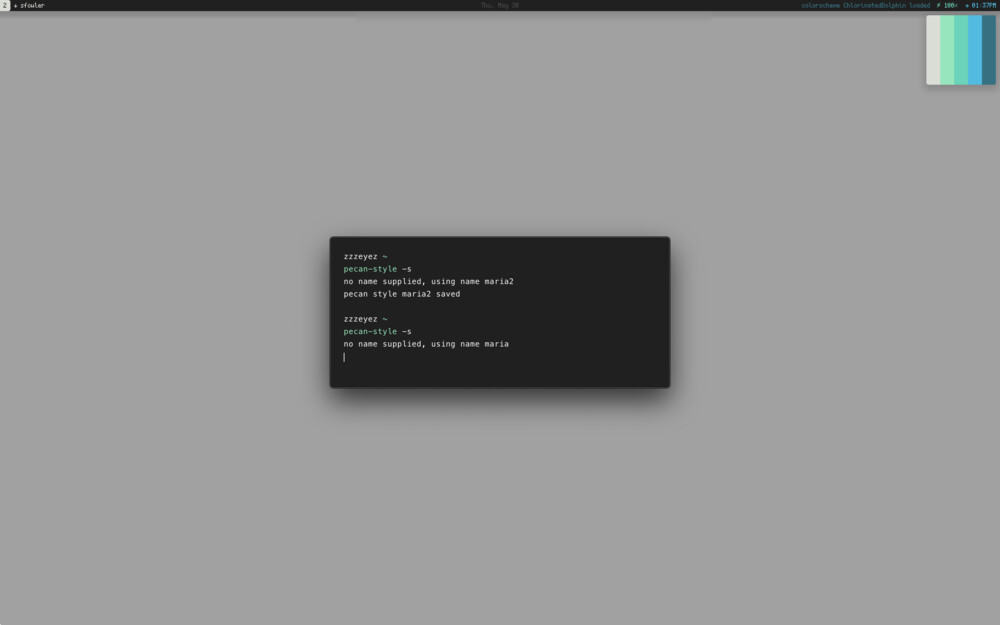
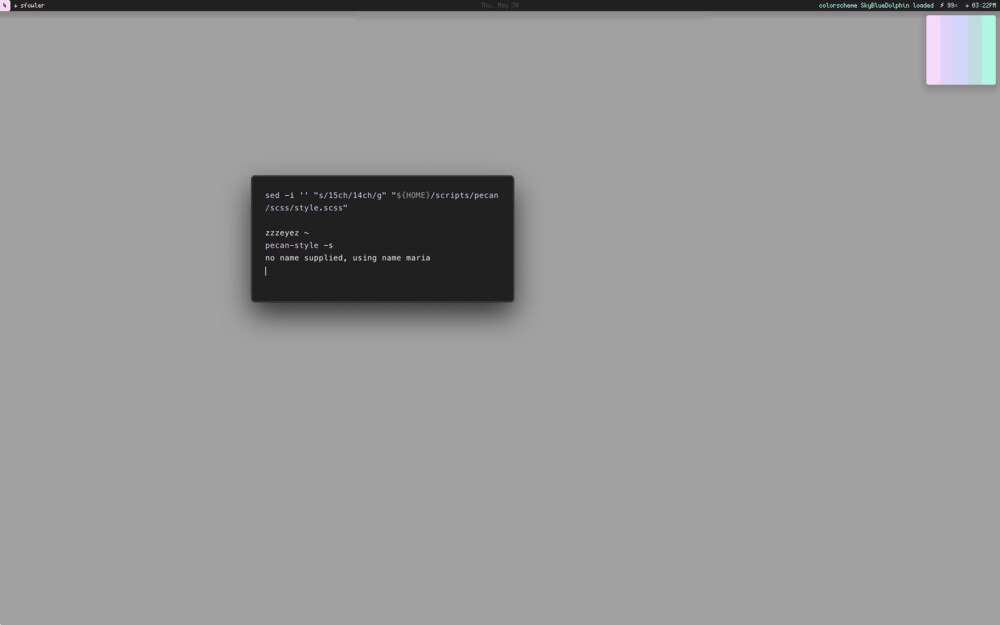
include the little lightning bolt

Changed region(s): [[0.217, 0.2736, 0.682, 0.6688], [0.806, 0.0, 1.0, 0.152], [0.0, 0.0, 0.031, 0.0304]]

diff --git a/themes/maria/style.css b/themes/maria/style.css
@@ -4,7 +4,7 @@
 :root {
   /* background colors */
   --pecan-bg: #202020;
-  --pecan-bg-pecanworkspace: #D9DDD4;
+  --pecan-bg-pecanworkspace: #FDD7FB;
   --pecan-bg-pecannetwork: var(--pecan-bg);
   --pecan-bg-pecandate: var(--pecan-bg);
   --pecan-bg-pecanbattery: var(--pecan-bg);
@@ -13,11 +13,11 @@
   --pecan-xanthia-image-bg: var(--pecan-bg);
   /* foreground colors */
   --pecan-fg-pecanworkspace: #202020;
-  --pecan-fg-pecannetwork: #D9DDD4;
+  --pecan-fg-pecannetwork: #FDD7FB;
   --pecan-fg-pecandate: #484848;
-  --pecan-fg-pecanbattery: #37D6B9;
-  --pecan-fg-pecanclock: #0DBCE5;
-  --pecan-xanthia-fg: #1D7283;
+  --pecan-fg-pecanbattery: #D2D6FE;
+  --pecan-fg-pecanclock: #B7DCE3;
+  --pecan-xanthia-fg: #9BF9E1;
   /* size */
   --pecan-height: 16px;
   --pecan-xanthia-max-width: 1000px;
@@ -50,7 +50,7 @@
   --pecan-padding-left: 0px;
   --pecan-padding-right: var(--pecan-padding-left);
   --pecan-padding-v: var(--pecan-padding-left);
-  --pecan-xanthia-padding-h: calc(var(--pecan-padding-right) + calc(var(--pecan-text-padding) * 4) + 15ch + calc(3 * var(--pecan-border)));
+  --pecan-xanthia-padding-h: calc(var(--pecan-padding-right) + calc(var(--pecan-text-padding) * 4) + 14ch + calc(3 * var(--pecan-border)));
   --pecan-xanthia-padding-v: calc(var(--pecan-border) + var(--pecan-padding-v));
   --pecan-xanthia-image-padding-v: calc(var(--pecan-height) + var(--pecan-xanthia-image-padding-h));
   --pecan-xanthia-image-padding-h: 6px;

diff --git a/themes/medicine/style.css b/themes/medicine/style.css
@@ -4,7 +4,7 @@
 :root {
   /* background colors */
   --pecan-bg: #fafafa;
-  --pecan-bg-pecanworkspace: #AFFBFF;
+  --pecan-bg-pecanworkspace: #F8B195;
   --pecan-bg-pecannetwork: #202020;
   --pecan-bg-pecandate: var(--pecan-bg-pecannetwork);
   --pecan-bg-pecanbattery: var(--pecan-bg-pecannetwork);
@@ -53,7 +53,7 @@
   --pecan-xanthia-padding-h: calc(var(--pecan-xanthia-image-size) + var(--pecan-xanthia-image-padding-h));
   --pecan-xanthia-padding-v: calc(var(--pecan-border) + var(--pecan-padding-v));
   --pecan-xanthia-image-padding-v: var(--pecan-xanthia-padding-v);
-  --pecan-xanthia-image-padding-h: calc(var(--pecan-padding-right) * 2 + calc(var(--pecan-text-padding) * 4) + 15ch + calc(3 * var(--pecan-border)));
+  --pecan-xanthia-image-padding-h: calc(var(--pecan-padding-right) * 2 + calc(var(--pecan-text-padding) * 4) + 14ch + calc(3 * var(--pecan-border)));
   /* shadow */
   --pecan-shadow: 0px 4px 10px 4px rgba(0,0,0,0.15);
   --pecan-shadow-inner: 0px 1px 1px 1px rgba(0,0,0,0.15);

diff --git a/style.css b/style.css
@@ -56,7 +56,7 @@
   --pecan-xanthia-padding-h: calc(var(--pecan-xanthia-image-size) + var(--pecan-xanthia-image-padding-h));
   --pecan-xanthia-padding-v: calc(var(--pecan-border) + var(--pecan-padding-v));
   --pecan-xanthia-image-padding-v: var(--pecan-xanthia-padding-v);
-  --pecan-xanthia-image-padding-h: calc(var(--pecan-padding-right) + calc(var(--pecan-text-padding) * 4) + 15ch + calc(3 * var(--pecan-border)));
+  --pecan-xanthia-image-padding-h: calc(var(--pecan-padding-right) + calc(var(--pecan-text-padding) * 4) + 14ch + calc(3 * var(--pecan-border)));
   /* shadow */
   --pecan-shadow: 0px 4px 10px 4px rgba(0,0,0,0.15);
   --pecan-shadow-inner: 0px 1px 1px 1px rgba(0,0,0,0.15);

diff --git a/themes/default/style.css b/themes/default/style.css
@@ -56,7 +56,7 @@
   --pecan-xanthia-padding-h: calc(var(--pecan-xanthia-image-size) + var(--pecan-xanthia-image-padding-h));
   --pecan-xanthia-padding-v: calc(var(--pecan-border) + var(--pecan-padding-v));
   --pecan-xanthia-image-padding-v: var(--pecan-xanthia-padding-v);
-  --pecan-xanthia-image-padding-h: calc(var(--pecan-padding-right) + calc(var(--pecan-text-padding) * 4) + 15ch + calc(3 * var(--pecan-border)));
+  --pecan-xanthia-image-padding-h: calc(var(--pecan-padding-right) + calc(var(--pecan-text-padding) * 4) + 14ch + calc(3 * var(--pecan-border)));
   /* shadow */
   --pecan-shadow: 0px 4px 10px 4px rgba(0,0,0,0.15);
   --pecan-shadow-inner: 0px 1px 1px 1px rgba(0,0,0,0.15);

diff --git a/themes/developer/style.css b/themes/developer/style.css
@@ -57,7 +57,7 @@
   --pecan-xanthia-padding-h: calc(var(--pecan-xanthia-image-size) + var(--pecan-xanthia-image-padding-h));
   --pecan-xanthia-padding-v: calc(var(--pecan-border) + var(--pecan-padding-v));
   --pecan-xanthia-image-padding-v: var(--pecan-xanthia-padding-v);
-  --pecan-xanthia-image-padding-h: calc(var(--pecan-padding-right) + calc(var(--pecan-text-padding) * 4) + 15ch + calc(3 * var(--pecan-border)));
+  --pecan-xanthia-image-padding-h: calc(var(--pecan-padding-right) + calc(var(--pecan-text-padding) * 4) + 14ch + calc(3 * var(--pecan-border)));
   /* shadow */
   --pecan-shadow: 0px 4px 10px 4px rgba(0,0,0,0.0);
   --pecan-shadow-inner: 0px 1px 1px 1px rgba(0,0,0,0.0);

diff --git a/themes/maria/style.scss b/themes/maria/style.scss
@@ -58,7 +58,7 @@
 	--pecan-padding-left: 0px;
 	--pecan-padding-right: var(--pecan-padding-left);
 	--pecan-padding-v: var(--pecan-padding-left);
-	--pecan-xanthia-padding-h: calc(var(--pecan-padding-right) + calc(var(--pecan-text-padding) * 4) + 15ch + calc(3 * var(--pecan-border))); 
+	--pecan-xanthia-padding-h: calc(var(--pecan-padding-right) + calc(var(--pecan-text-padding) * 4) + 14ch + calc(3 * var(--pecan-border))); 
 	--pecan-xanthia-padding-v: calc(var(--pecan-border) + var(--pecan-padding-v));
 	--pecan-xanthia-image-padding-v: calc(var(--pecan-height) + var(--pecan-xanthia-image-padding-h));
 	--pecan-xanthia-image-padding-h: 6px;

diff --git a/themes/medicine/style.scss b/themes/medicine/style.scss
@@ -61,7 +61,7 @@
 	--pecan-xanthia-padding-h: calc(var(--pecan-xanthia-image-size) + var(--pecan-xanthia-image-padding-h)); 
 	--pecan-xanthia-padding-v: calc(var(--pecan-border) + var(--pecan-padding-v));
 	--pecan-xanthia-image-padding-v: var(--pecan-xanthia-padding-v);
-	--pecan-xanthia-image-padding-h: calc(var(--pecan-padding-right) * 2 + calc(var(--pecan-text-padding) * 4) + 15ch + calc(3 * var(--pecan-border)));
+	--pecan-xanthia-image-padding-h: calc(var(--pecan-padding-right) * 2 + calc(var(--pecan-text-padding) * 4) + 14ch + calc(3 * var(--pecan-border)));
 
 /* shadow */
 	--pecan-shadow: 0px 4px 10px 4px rgba(0,0,0,0.15);

diff --git a/scss/style.scss b/scss/style.scss
@@ -64,7 +64,7 @@
 	--pecan-xanthia-padding-h: calc(var(--pecan-xanthia-image-size) + var(--pecan-xanthia-image-padding-h)); 
 	--pecan-xanthia-padding-v: calc(var(--pecan-border) + var(--pecan-padding-v));
 	--pecan-xanthia-image-padding-v: var(--pecan-xanthia-padding-v);
-	--pecan-xanthia-image-padding-h: calc(var(--pecan-padding-right) + calc(var(--pecan-text-padding) * 4) + 15ch + calc(3 * var(--pecan-border)));
+	--pecan-xanthia-image-padding-h: calc(var(--pecan-padding-right) + calc(var(--pecan-text-padding) * 4) + 14ch + calc(3 * var(--pecan-border)));
 
 /* shadow */
 	--pecan-shadow: 0px 4px 10px 4px rgba(0,0,0,0.15);

diff --git a/themes/default/style.scss b/themes/default/style.scss
@@ -64,7 +64,7 @@
 	--pecan-xanthia-padding-h: calc(var(--pecan-xanthia-image-size) + var(--pecan-xanthia-image-padding-h)); 
 	--pecan-xanthia-padding-v: calc(var(--pecan-border) + var(--pecan-padding-v));
 	--pecan-xanthia-image-padding-v: var(--pecan-xanthia-padding-v);
-	--pecan-xanthia-image-padding-h: calc(var(--pecan-padding-right) + calc(var(--pecan-text-padding) * 4) + 15ch + calc(3 * var(--pecan-border)));
+	--pecan-xanthia-image-padding-h: calc(var(--pecan-padding-right) + calc(var(--pecan-text-padding) * 4) + 14ch + calc(3 * var(--pecan-border)));
 
 /* shadow */
 	--pecan-shadow: 0px 4px 10px 4px rgba(0,0,0,0.15);

diff --git a/themes/developer/style.scss b/themes/developer/style.scss
@@ -65,7 +65,7 @@
 	--pecan-xanthia-padding-h: calc(var(--pecan-xanthia-image-size) + var(--pecan-xanthia-image-padding-h)); 
 	--pecan-xanthia-padding-v: calc(var(--pecan-border) + var(--pecan-padding-v));
 	--pecan-xanthia-image-padding-v: var(--pecan-xanthia-padding-v);
-	--pecan-xanthia-image-padding-h: calc(var(--pecan-padding-right) + calc(var(--pecan-text-padding) * 4) + 15ch + calc(3 * var(--pecan-border)));
+	--pecan-xanthia-image-padding-h: calc(var(--pecan-padding-right) + calc(var(--pecan-text-padding) * 4) + 14ch + calc(3 * var(--pecan-border)));
 
 /* shadow */
 	--pecan-shadow: 0px 4px 10px 4px rgba(0,0,0,0.0);
